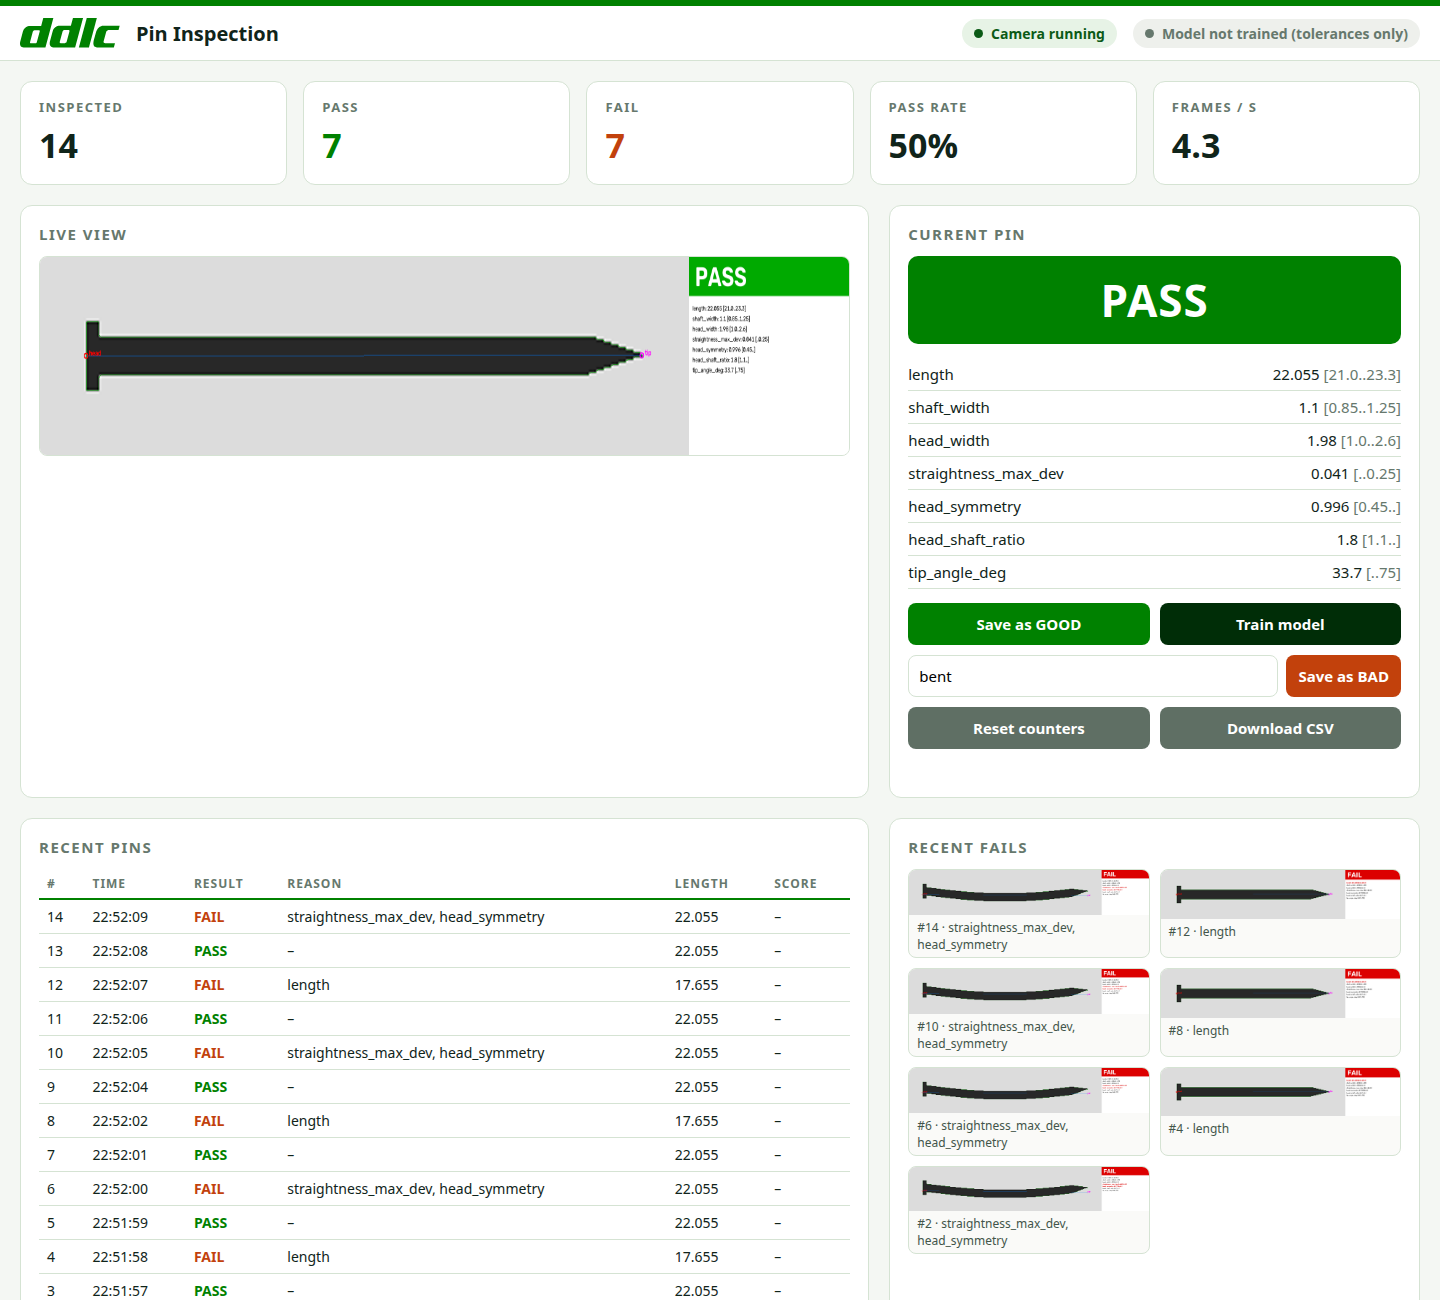
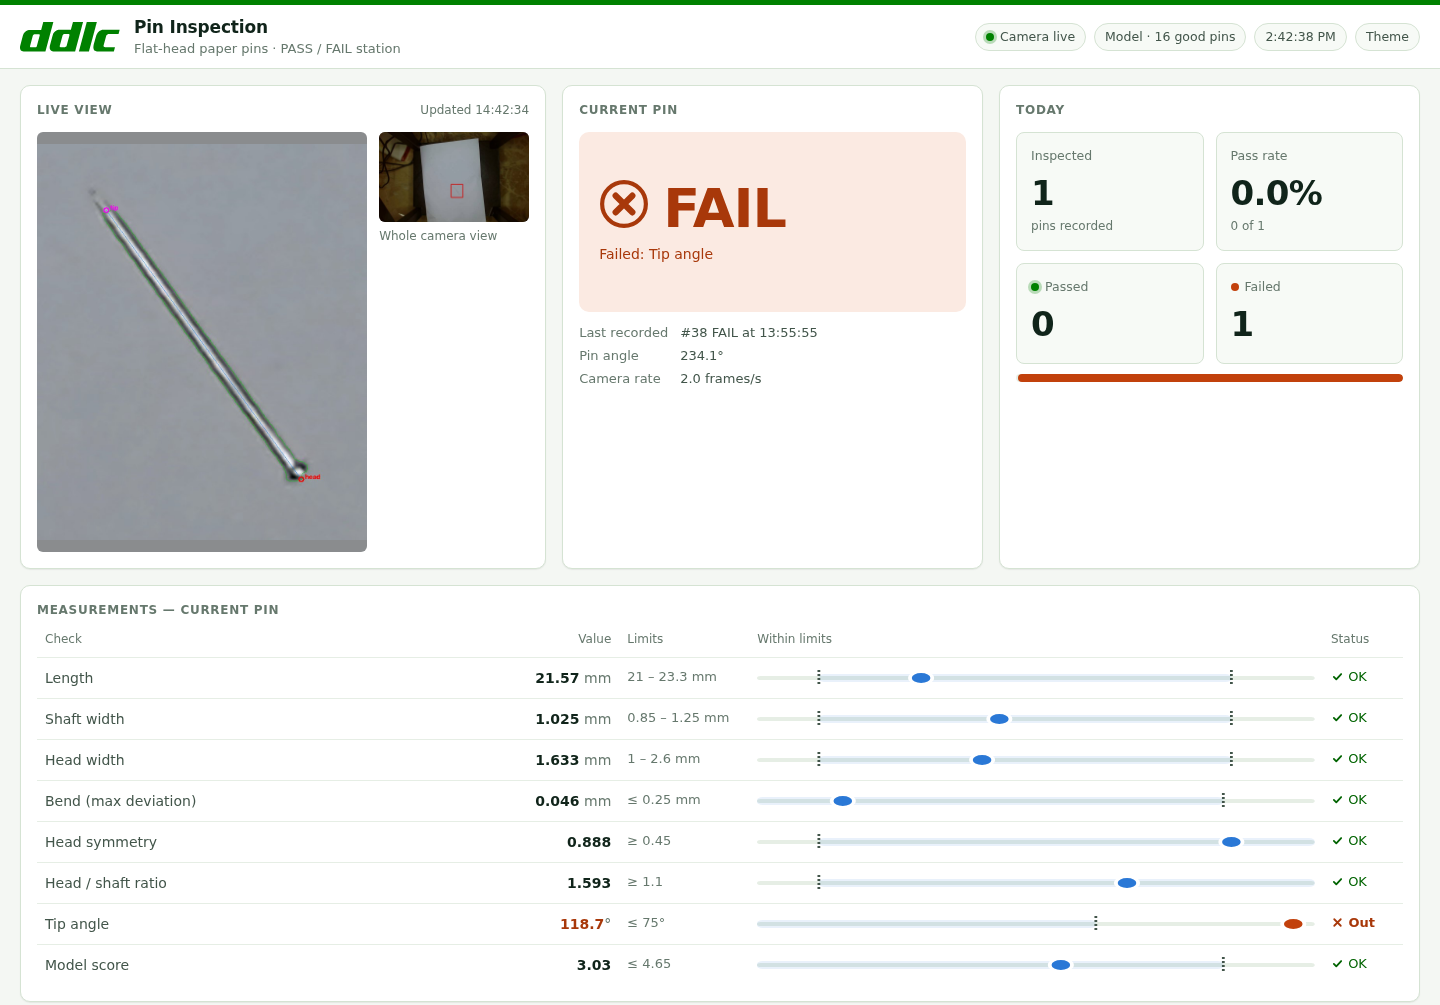
Update presentation: current dashboard, ±0.04 mm precision, pin.ddlc.ai access

diff --git a/docs/index.html b/docs/index.html
@@ -183,11 +183,11 @@
   </div>
   <div class="flow">
     <div class="step"><span class="num">01 · See</span><h3>Camera</h3><p>A webcam above the line captures each pin.</p></div>
-    <div class="step"><span class="num">02 · Measure</span><h3>Shape</h3><p>Length, head, shaft, straightness and tip, in millimetres.</p></div>
+    <div class="step"><span class="num">02 · Measure</span><h3>Shape</h3><p>Length, head, shaft, straightness and tip, to ±0.04&nbsp;mm.</p></div>
     <div class="step"><span class="num">03 · Compare</span><h3>Good pins</h3><p>Learned from just 10–20 good pins.</p></div>
     <div class="step end"><span class="num" style="color:#7BCB7B">04 · Decide</span><h3>Verdict</h3><p><span class="pill pass">PASS</span> or <span class="pill fail">FAIL</span>, with the reason.</p></div>
   </div>
-  <p class="lead">Runs on a <b>Raspberry Pi 5</b> and a standard USB webcam.</p>
+  <p class="lead">Runs on a <b>Raspberry Pi 5</b> and a standard USB webcam, calibrated with a 22&nbsp;mm reference pin.</p>
   <div class="footer"><img src="ddlc-logo-green.svg" alt="DDLC AI"><span class="pg"></span></div>
 </section>
 
@@ -204,6 +204,8 @@
       <li>Counters, pass rate and recent fails with images</li>
       <li>One-click training from good pins</li>
       <li>Every pin logged and exportable</li>
+      <li>Secure online access at <b>pin.ddlc.ai</b> with a password login</li>
+      <li>Starts by itself after a power cut</li>
     </ul>
   </div>
   <div class="footer"><img src="ddlc-logo-green.svg" alt="DDLC AI"><span class="pg"></span></div>
@@ -278,8 +280,8 @@
         </div>
         <div class="mtile">
           <span class="name">Pin</span><span class="badge soon">Joining next</span>
-          <div class="kv"><span>Camera</span><span>—</span></div>
-          <div class="kv"><span>Pass rate</span><span>—</span></div>
+          <div class="kv"><span>Camera</span><span>Live</span></div>
+          <div class="kv"><span>Online</span><span>pin.ddlc.ai</span></div>
           <svg class="spark" viewBox="0 0 200 40" preserveAspectRatio="none"><line x1="0" y1="20" x2="200" y2="20" stroke="#4A5E4E" stroke-width="3" stroke-dasharray="8 8"/></svg>
         </div>
       </div>
